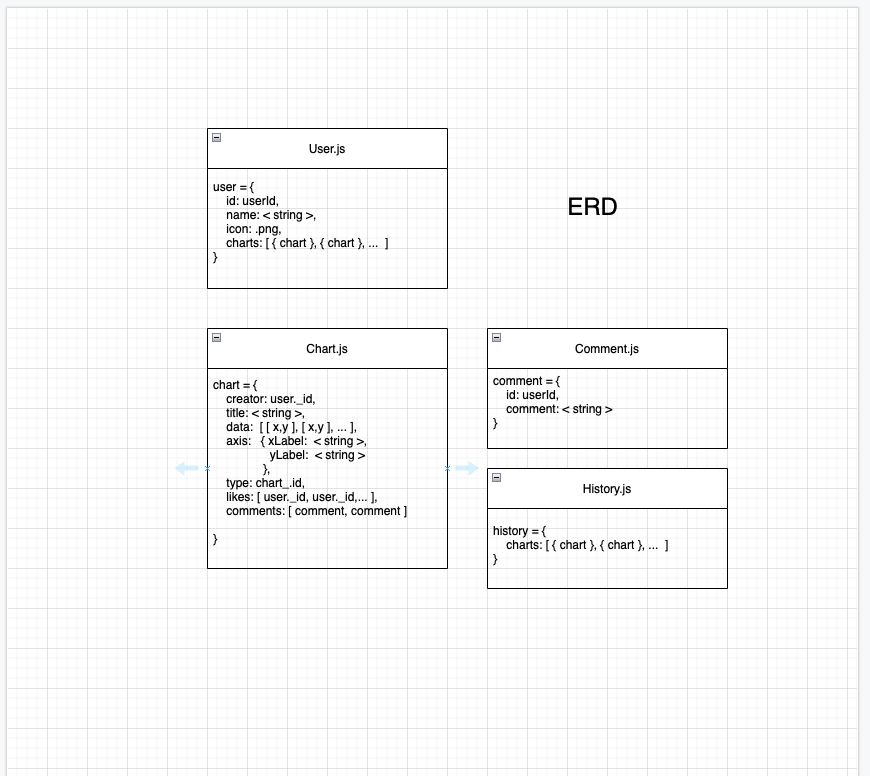
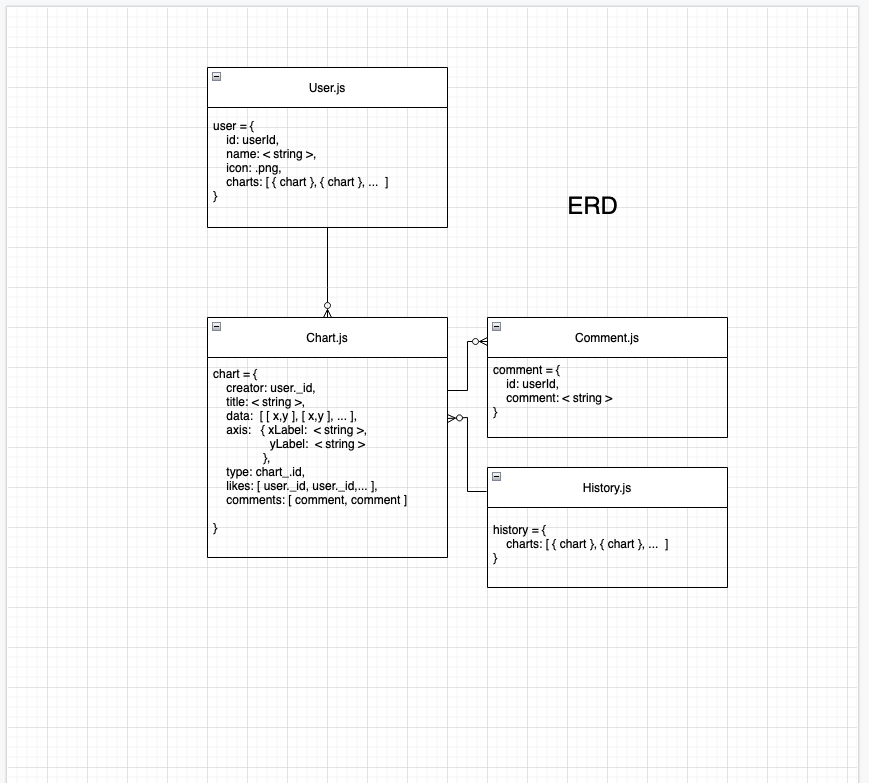
update ERD Diagram

diff --git a/README.md b/README.md
@@ -1,4 +1,4 @@
-# quickCharts
+# quickChart
 ### 07.25.2022
 ### James Jewitt 
 ### [LinkedIn]( https://www.linkedin.com/in/james-jewitt/ ) |  [GitHub](https://github.com/jamest7783) |  [Trello](https://trello.com/b/Mc0uEhTG/quickchart) 
